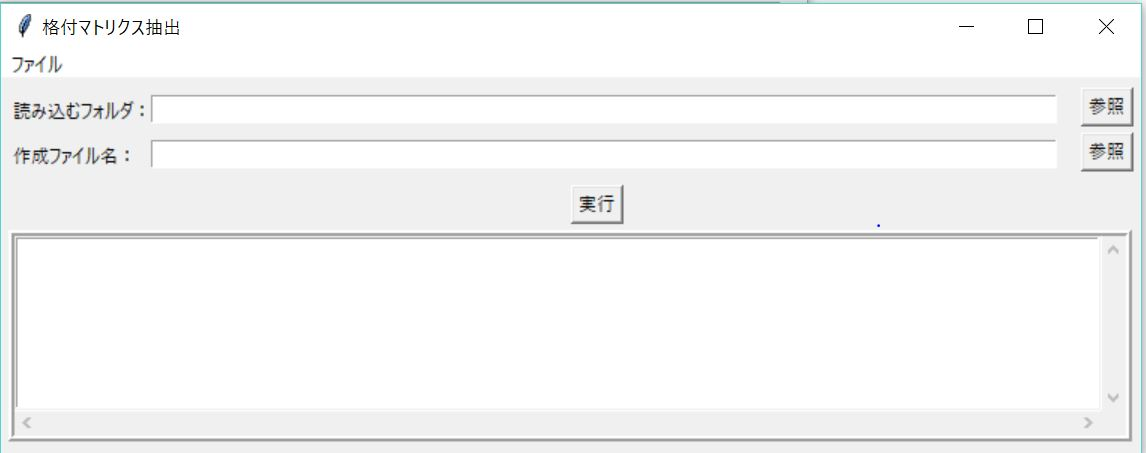
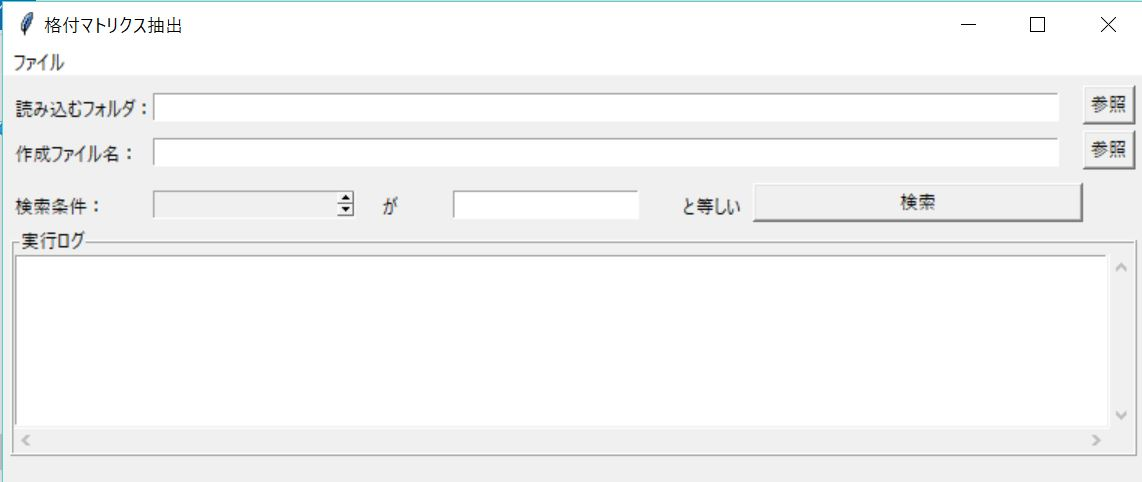
[fix]matrix.py,matrix_tk.py,data/matrix_columns.txt,data/ui_image.jpg,README.md
検索条件入力機能追加対応

Changed region(s): [[0.0, 0.0, 1.0, 1.0], [0.1532, 0.3709, 0.3065, 0.4327], [0.3371, 0.4018, 0.3678, 0.4327]]

diff --git a/matrix.py b/matrix.py
@@ -4,9 +4,12 @@ import tkinter.filedialog as tkfl
 import glob
 import os
 
+# グローバル変数
 files = None
+header = None
+headerfile = ".\\data\\matrix_columns.txt"
 
-#読み込むフォルダパスを取得(返り値：フォルダパス(str))
+# 読み込むフォルダパスを取得(返り値：フォルダパス(str))
 def getreaddir_path():
     tk = tkinter.Tk()
     tk.withdraw()  
@@ -14,7 +17,15 @@ def getreaddir_path():
 
     return readf_path
 
-#出力ファイル名の取得
+# 入力ファイル名の取得
+def getreadf_path():
+    tk = tkinter.Tk()
+    tk.withdraw()  
+    readf_path = tkfl.askopenfilenames(filetypes=[('csv file','*.csv')])
+
+    return readf_path
+
+# 出力ファイル名の取得
 def getwritef_path():
     tk = tkinter.Tk()
     tk.withdraw()  
@@ -22,40 +33,36 @@ def getwritef_path():
 
     return writef_path
     
-#指定されたフォルダ内のcsvを結合しデータフレーム化する
+# 指定されたフォルダ内のcsvを結合しデータフレーム化する
 def read(f_path):
-    global files
+    global files, header
     data_list = []
 
-    #指定のフォルダからすべてのcsvファイルのパスをリスト化
+    # 指定のフォルダからすべてのcsvファイルのパスをリスト化
     files = glob.glob(os.path.join(f_path,'*.csv')) 
 
-    #ヘッダーファイルの読み込み
-    headerfile = ".\\data\\matrix_columns.txt"
+    # ヘッダーファイルの読み込み
     with open (headerfile, 'r', encoding='utf-8') as input:
-        data = input.read()
-        data = data.split('\n')
+        header = input.read()
+        header = header.split('\n')
 
-    #フォルダ内のCSVファイルをすべて読み込む
+    # フォルダ内のCSVファイルをすべて読み込む
     for file in files:
-#        temp_f = pd.read_csv(file,names=data,encoding='shift_jis')
-#        temp_f['filename'] = os.path.basename(file)
-#        data_list.append(temp_f)
-        data_list.append(pd.read_csv(file,names=data,encoding='shift_jis'))
+        data_list.append(pd.read_csv(file,names=header,encoding='shift_jis',dtype='object'))
 
-    #リスト化されたデータフレームを結合。indexも降りなおす
+    # リスト化されたデータフレームを結合。indexも降りなおす
     data_f = pd.concat(data_list, ignore_index=True)
 
     return data_f
 
-#データフレーム内から指定した条件でデータを抽出する
+# データフレーム内から指定した条件でデータを抽出する
 def select(data_f, name, value):
     select_f = data_f[data_f[name].isin(value)]
 
     return select_f
     
 
-#データフレームをファイル出力
+# データフレームをファイル出力
 def matrix_to_csv(data_f, wf_path):
     try:
         data_f.to_csv(path_or_buf=wf_path)
@@ -64,10 +71,21 @@ def matrix_to_csv(data_f, wf_path):
 
     return True
 
-#読み込んだファイル名を取得する
+# 読み込んだファイル名を取得する
 def getreadfiles():
     if files != None:
         return files
+    else:
+        return False
+
+# ヘッダー項目を取得する
+def getheader():
+    # ヘッダーファイルの読み込み
+    with open (headerfile, 'r', encoding='utf-8') as input:
+        header = input.read()
+        header = header.split('\n')
+    if header != None:
+        return header
     else:
         return False
 

diff --git a/matrix_tk.py b/matrix_tk.py
@@ -16,9 +16,14 @@ def get_matrix_w_path():
 def matrix_select():
     data_f = matrix.read(entry_r.get())
 
-    name  = '格付会社コード'
-    value = [1]
-    select_f = matrix.select(data_f, name, value).reset_index(drop = True)
+#    name  = '残存年'
+#    value = ['01']
+    name  = entry_s.get()
+    value = [str(entry_v.get())]
+    if name != "":
+        select_f = matrix.select(data_f, name, value).reset_index(drop = True)
+    else:
+        select_f = data_f
 
     matrix.matrix_to_csv(select_f, entry_w.get())
 
@@ -50,7 +55,7 @@ def put_log(name, value, select_f):
 ### インターフェースの作成 ###
 root = tkinter.Tk()
 # キャンバスの設定
-root.geometry('760x250')
+root.geometry('760x270')
 root.title('格付マトリクス抽出')
 
 ## メニューバーの作成
@@ -101,27 +106,72 @@ button_matrix_w = tkinter.Button(
                     )
 button_matrix_w.place(x=720,y=35)
 
-## 処理開始用ボタン
+## 検索条件入力エリア
+# 検索条件ラベル
+buff_label_s = tkinter.StringVar()
+buff_label_s.set("検索条件：")
+label_search = tkinter.Label(
+                        root,
+                        textvariable = buff_label_s
+                    )
+label_search.place(x=5,y=75)
+# 条件１入力エリア(項目)
+search_col = matrix.getheader()
+search_col.insert(0,"")
+entry_s  = tkinter.Spinbox(
+                    root,
+                    width=20,
+                    value=search_col,
+                    state = 'readonly'
+                )
+entry_s.place(x=100,y=75)
+
+buff_label_sc = tkinter.StringVar()
+buff_label_sc.set("が")
+label_search_con = tkinter.Label(
+                        root,
+                        textvariable = buff_label_sc
+                    )
+label_search_con.place(x=250,y=75)
+
+# 条件２入力エリア(値)
+entry_v  = tkinter.Entry(
+                    root,
+                    width=20
+                )
+entry_v.place(x=300,y=75)
+buff_label_sv = tkinter.StringVar()
+buff_label_sv.set("と等しい")
+label_search_val = tkinter.Label(
+                        root,
+                        textvariable = buff_label_sv
+                    )
+label_search_val.place(x=450,y=75)
+
+
+
+## 検索開始用ボタン
 button_submit = tkinter.Button(
                         root,
-                        text = '実行',
+                        text = '検索',
+                        width=30,
                         command = matrix_select
                     )
-button_submit.place(x=380,y=70)
+button_submit.place(x=500,y=70)
 
 ## ログ表示エリア設定
 # フレームの設定
-frame = tkinter.Frame(
+frame = tkinter.LabelFrame(
                 root,
-                relief=tkinter.RIDGE,
-                borderwidth = 4
+                text="実行ログ",
+                relief=tkinter.RIDGE
             )
 frame.place(x=5,y=100)
 
 # ログ表示エリア用リストボックス
 lb = tkinter.Listbox(
                 frame,
-                width = 120,
+                width = 121,
                 height = 7
             )
 lb.grid(row=0, column=0,sticky=tkinter.NSEW)
